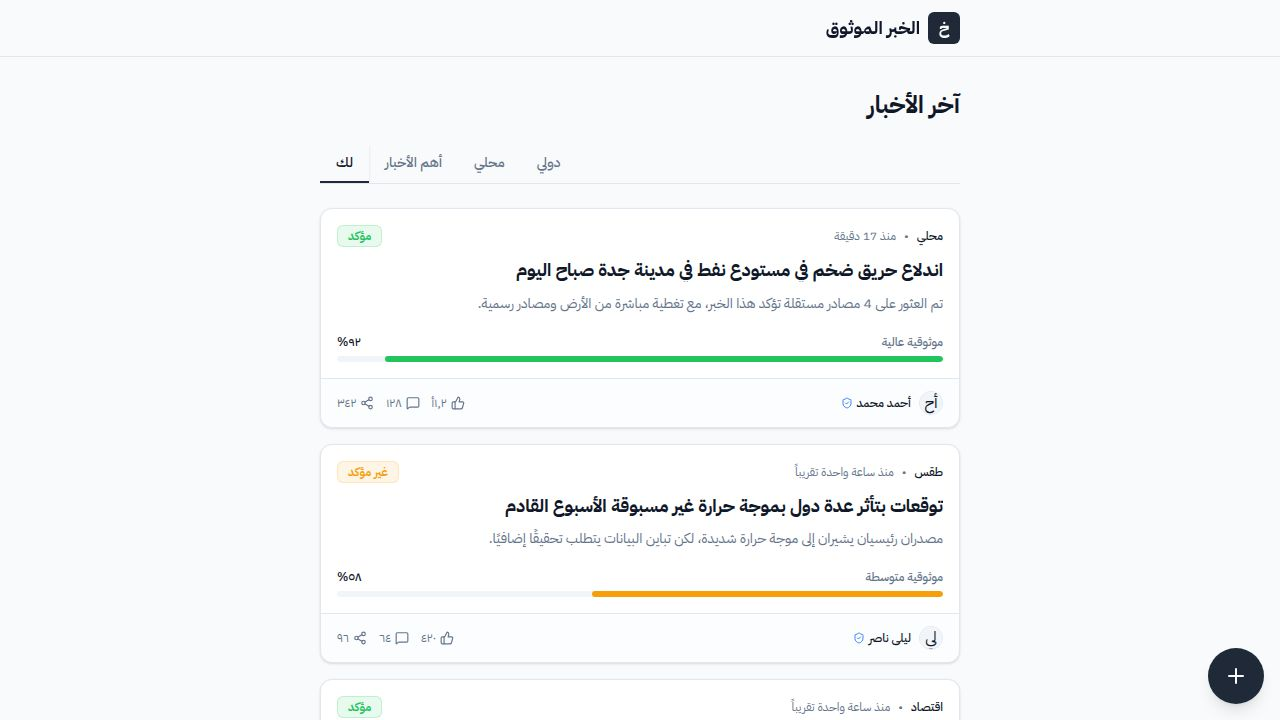
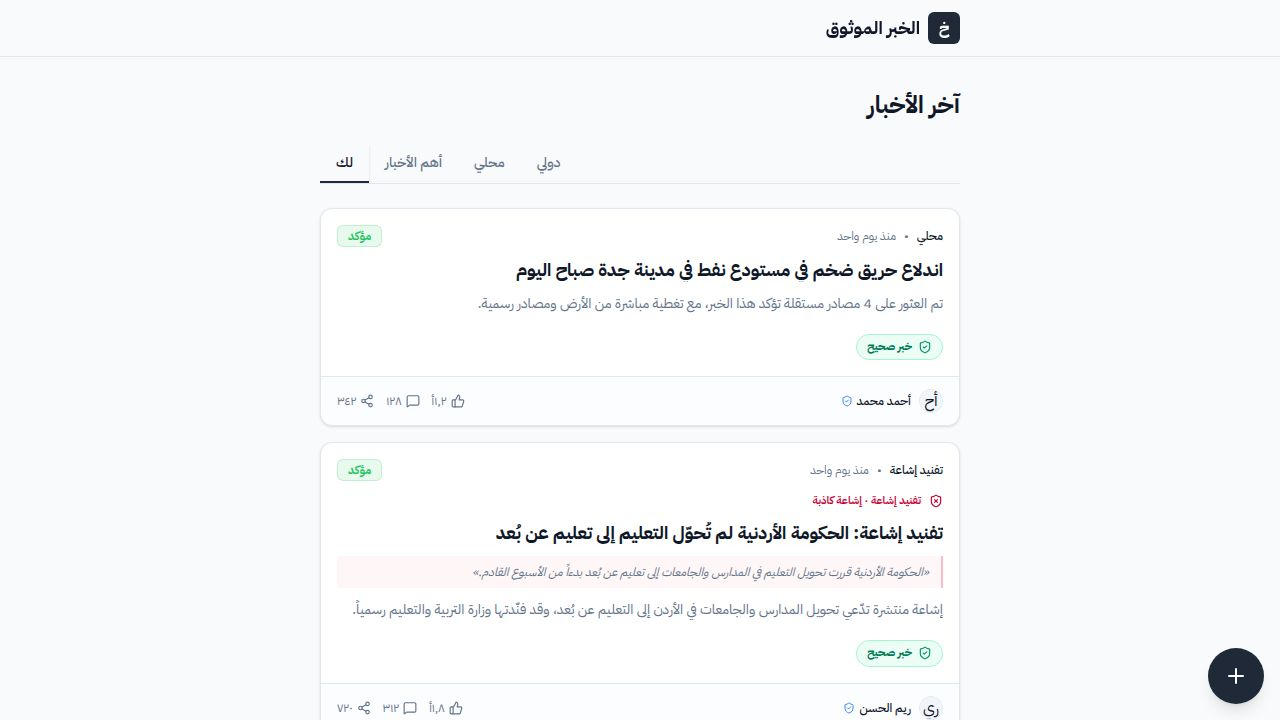
Introduce a four-tiered classification system for news reliability
Replaces the percentage-based confidence indicator with a new four-tiered classification system (خبر صحيح, خبر يمكن الأخذ به, خبر غير مؤكد, خبر مضلل) displayed as badges in `ConfidenceBar` component, updating its props and call sites in `news-card.tsx`, `news-detail.tsx`, and `news-explain.tsx`.

Replit-Commit-Author: Agent
Replit-Commit-Session-Id: 65936280-8d52-432d-84bc-b9bb6c75004e
Replit-Commit-Checkpoint-Type: full_checkpoint
Replit-Commit-Event-Id: 5ac25505-3692-4816-936c-616700dd95c0
Replit-Commit-Screenshot-Url: https://storage.googleapis.com/screenshot-production-us-central1/eb7ef480-b41e-4eb0-abf5-34f962602ca2/65936280-8d52-432d-84bc-b9bb6c75004e/syTFeGH
Replit-Helium-Checkpoint-Created: true

diff --git a/artifacts/trusted-news/src/components/confidence-bar.tsx b/artifacts/trusted-news/src/components/confidence-bar.tsx
@@ -1,47 +1,123 @@
 import { cn } from "@/lib/utils";
-import { Confidence } from "@workspace/api-client-react";
-import { formatArabicNumber } from "@/lib/format";
+import { Confidence, NewsStatus } from "@workspace/api-client-react";
+import {
+  CheckCircle2,
+  ShieldCheck,
+  AlertTriangle,
+  XCircle,
+  type LucideIcon,
+} from "lucide-react";
+
+export type NewsTierKey = "true" | "reliable" | "unverified" | "misleading";
+
+export interface NewsTier {
+  key: NewsTierKey;
+  label: string;
+  shortLabel: string;
+  Icon: LucideIcon;
+  badgeClass: string;
+  iconColor: string;
+  ringColor: string;
+}
+
+export function getNewsTier(input: {
+  confidence: Confidence;
+  score: number;
+  status?: NewsStatus;
+}): NewsTier {
+  const { score, status } = input;
+
+  if (status === NewsStatus.rejected || score < 40) {
+    return {
+      key: "misleading",
+      label: "خبر مضلل",
+      shortLabel: "مضلل",
+      Icon: XCircle,
+      badgeClass:
+        "bg-rose-50 text-rose-700 border-rose-200 dark:bg-rose-950/40 dark:text-rose-200 dark:border-rose-900",
+      iconColor: "text-rose-600 dark:text-rose-300",
+      ringColor: "ring-rose-200 dark:ring-rose-900",
+    };
+  }
+
+  if (status === NewsStatus.verified && score >= 80) {
+    return {
+      key: "true",
+      label: "خبر صحيح",
+      shortLabel: "صحيح",
+      Icon: ShieldCheck,
+      badgeClass:
+        "bg-emerald-50 text-emerald-700 border-emerald-200 dark:bg-emerald-950/40 dark:text-emerald-200 dark:border-emerald-900",
+      iconColor: "text-emerald-600 dark:text-emerald-300",
+      ringColor: "ring-emerald-200 dark:ring-emerald-900",
+    };
+  }
+
+  if (score >= 65) {
+    return {
+      key: "reliable",
+      label: "خبر يمكن الأخذ به",
+      shortLabel: "موثوق نسبياً",
+      Icon: CheckCircle2,
+      badgeClass:
+        "bg-sky-50 text-sky-700 border-sky-200 dark:bg-sky-950/40 dark:text-sky-200 dark:border-sky-900",
+      iconColor: "text-sky-600 dark:text-sky-300",
+      ringColor: "ring-sky-200 dark:ring-sky-900",
+    };
+  }
+
+  return {
+    key: "unverified",
+    label: "خبر غير مؤكد",
+    shortLabel: "غير مؤكد",
+    Icon: AlertTriangle,
+    badgeClass:
+      "bg-amber-50 text-amber-700 border-amber-200 dark:bg-amber-950/40 dark:text-amber-200 dark:border-amber-900",
+    iconColor: "text-amber-600 dark:text-amber-300",
+    ringColor: "ring-amber-200 dark:ring-amber-900",
+  };
+}
 
 interface ConfidenceBarProps {
   confidence: Confidence;
   score: number;
+  status?: NewsStatus;
   className?: string;
-  showLabel?: boolean;
+  size?: "sm" | "md" | "lg";
 }
 
-export function ConfidenceBar({ confidence, score, className, showLabel = true }: ConfidenceBarProps) {
-  let colorClass = "";
-  let label = "";
+export function ConfidenceBar({
+  confidence,
+  score,
+  status,
+  className,
+  size = "md",
+}: ConfidenceBarProps) {
+  const tier = getNewsTier({ confidence, score, status });
+  const Icon = tier.Icon;
 
-  switch (confidence) {
-    case Confidence.high:
-      colorClass = "bg-trust-green";
-      label = "موثوقية عالية";
-      break;
-    case Confidence.medium:
-      colorClass = "bg-trust-amber";
-      label = "موثوقية متوسطة";
-      break;
-    case Confidence.low:
-      colorClass = "bg-trust-red";
-      label = "موثوقية منخفضة";
-      break;
-  }
+  const sizing =
+    size === "lg"
+      ? "px-4 py-2 text-sm gap-2.5"
+      : size === "sm"
+        ? "px-2.5 py-1 text-[11px] gap-1.5"
+        : "px-3 py-1.5 text-xs gap-2";
+  const iconSize =
+    size === "lg" ? "w-5 h-5" : size === "sm" ? "w-3.5 h-3.5" : "w-4 h-4";
 
   return (
-    <div className={cn("flex flex-col gap-1.5 w-full", className)}>
-      {showLabel && (
-        <div className="flex items-center justify-between text-xs font-medium">
-          <span className="text-muted-foreground">{label}</span>
-          <span>{formatArabicNumber(score)}%</span>
-        </div>
+    <div
+      className={cn(
+        "inline-flex items-center rounded-full border font-bold w-fit",
+        tier.badgeClass,
+        sizing,
+        className,
       )}
-      <div className="h-1.5 w-full bg-secondary rounded-full overflow-hidden">
-        <div 
-          className={cn("h-full rounded-full transition-all duration-500 ease-out", colorClass)} 
-          style={{ width: `${score}%` }} 
-        />
-      </div>
+    >
+      <Icon className={cn(iconSize, tier.iconColor)} />
+      <span>{tier.label}</span>
     </div>
   );
 }
+
+export const ConfidenceBadge = ConfidenceBar;

diff --git a/artifacts/trusted-news/src/pages/news-detail.tsx b/artifacts/trusted-news/src/pages/news-detail.tsx
@@ -192,7 +192,12 @@ export default function NewsDetail({ id }: { id: string }) {
           </Link>
         </div>
 
-        <ConfidenceBar confidence={news.confidence} score={news.confidenceScore} />
+        <ConfidenceBar
+          confidence={news.confidence}
+          score={news.confidenceScore}
+          status={news.status}
+          size="lg"
+        />
 
         <div className="bg-muted/50 p-4 rounded-lg text-sm leading-relaxed border border-border/50">
           <p className="flex gap-2">

diff --git a/artifacts/trusted-news/src/pages/news-explain.tsx b/artifacts/trusted-news/src/pages/news-explain.tsx
@@ -52,7 +52,13 @@ export default function NewsExplain({ id }: { id: string }) {
           {news.aiExplanation.verdict}
         </p>
 
-        <ConfidenceBar confidence={news.confidence} score={news.confidenceScore} className="mt-2" />
+        <ConfidenceBar
+          confidence={news.confidence}
+          score={news.confidenceScore}
+          status={news.status}
+          className="mt-2"
+          size="lg"
+        />
       </div>
 
       <div className="flex flex-col gap-4">

diff --git a/artifacts/trusted-news/src/components/news-card.tsx b/artifacts/trusted-news/src/components/news-card.tsx
@@ -71,7 +71,13 @@ export function NewsCard({ news, className }: NewsCardProps) {
             {news.summary}
           </p>
 
-          <ConfidenceBar confidence={news.confidence} score={news.confidenceScore} className="mt-2" />
+          <ConfidenceBar
+            confidence={news.confidence}
+            score={news.confidenceScore}
+            status={news.status}
+            className="mt-2"
+            size="sm"
+          />
         </div>
       </Link>
 
